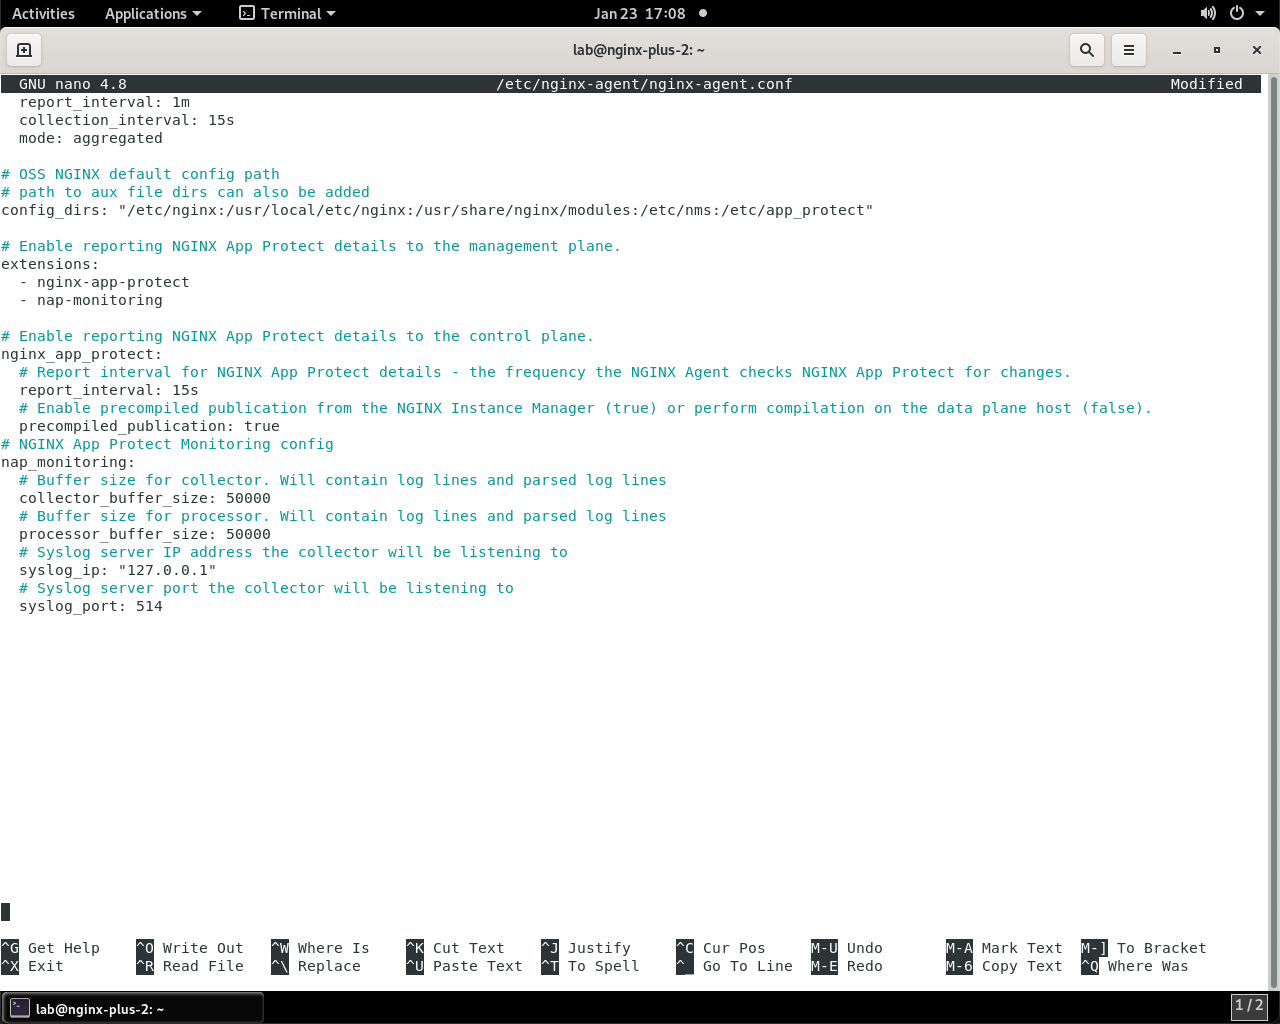
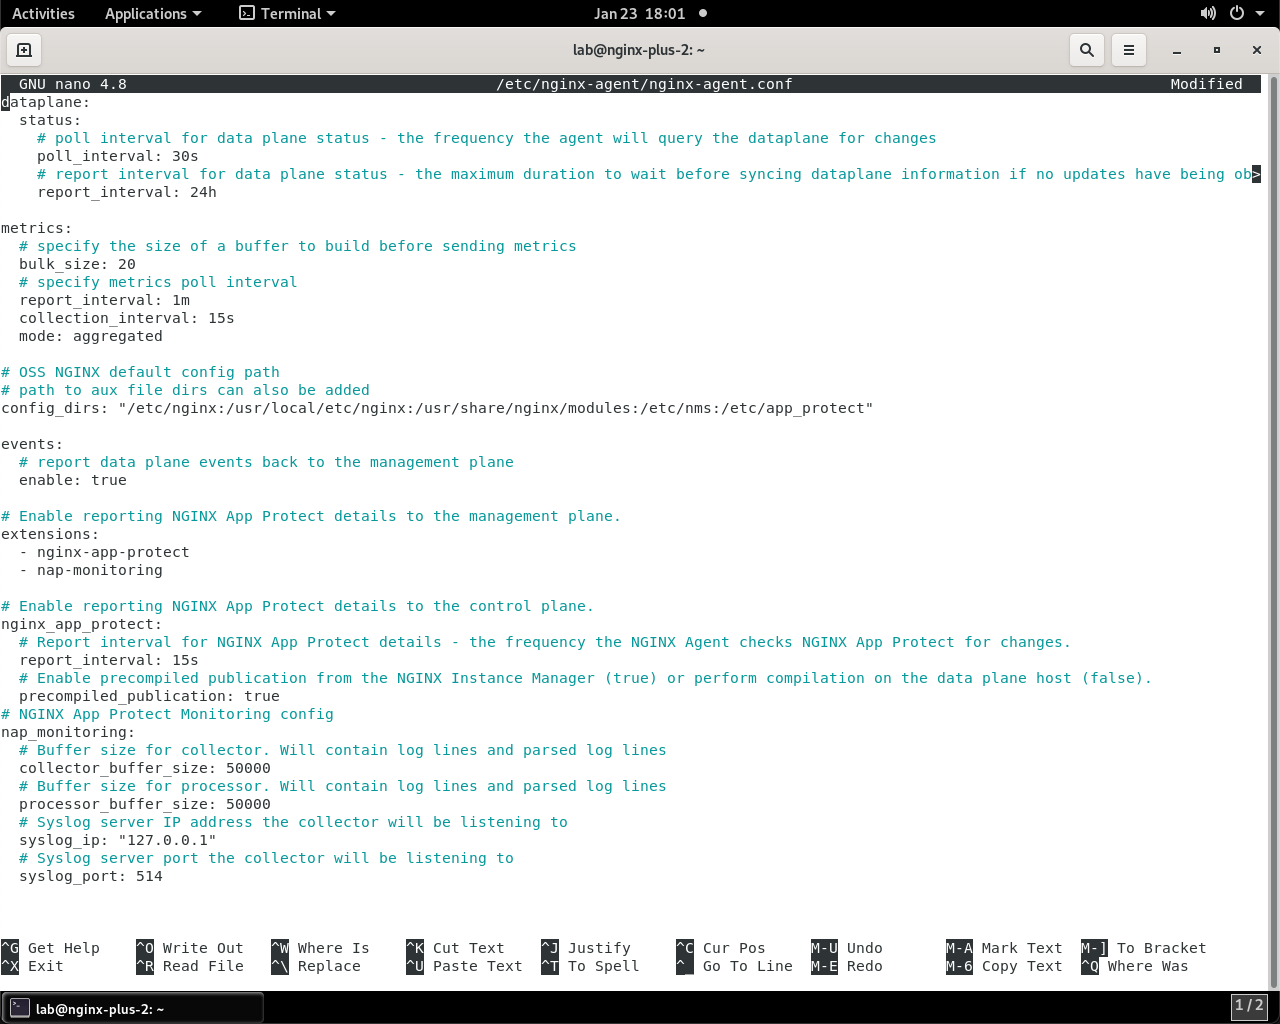
enable events in agent config to make security events display

diff --git a/docs/class5/module2/lab2/lab2.rst b/docs/class5/module2/lab2/lab2.rst
@@ -40,6 +40,10 @@ Next, add the following configuration block to the end of the file:
 
 .. code-block:: bash
 
+  events:
+    # report data plane events back to the management plane
+    enable: true
+
   # Enable reporting NGINX App Protect details to the management plane.
   extensions:
     - nginx-app-protect
